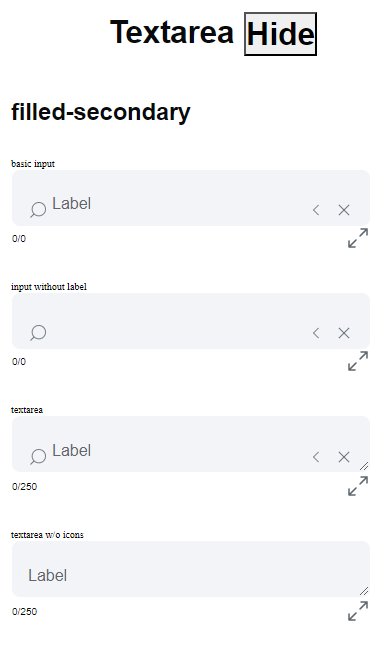
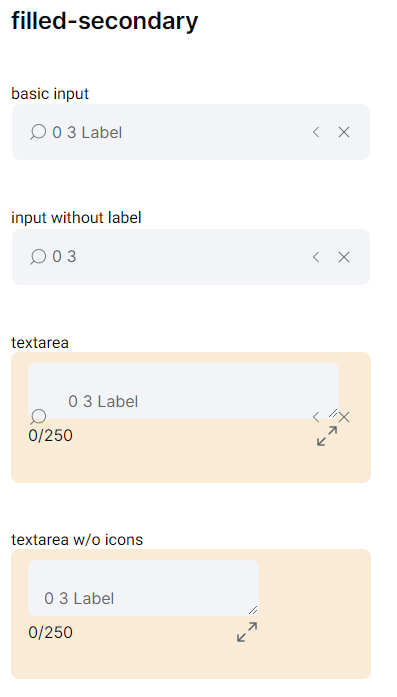
fup: with textareas

diff --git a/src/app/shared/modules/mib-ui/mib-ui.component.html b/src/app/shared/modules/mib-ui/mib-ui.component.html
@@ -59,7 +59,7 @@
 			Disabled
 		</mib-button>
 	</div>
-	<div class="spacer-3"></div>
+	<mib-spacing type="l"></mib-spacing>
 	<h3>filled-accent</h3>
 	<div class="btn-wrapper">
 		<mib-button size="xl" type="filled-accent">
@@ -92,7 +92,7 @@
 			<mib-ref-icon class="stroke" name="fi_chevron-right"></mib-ref-icon>
 		</mib-button>
 	</div>
-	<div class="spacer-3"></div>
+	<mib-spacing type="l"></mib-spacing>
 	<h3>filled-secondary</h3>
 	<div class="btn-wrapper">
 		<mib-button size="xl" type="filled-secondary">
@@ -125,7 +125,7 @@
 			<mib-ref-icon class="stroke" name="fi_chevron-right"></mib-ref-icon>
 		</mib-button>
 	</div>
-	<div class="spacer-3"></div>
+	<mib-spacing type="l"></mib-spacing>
 	<h3>floating</h3>
 	<div class="btn-wrapper">
 		<mib-button size="xl" type="floating">
@@ -158,7 +158,7 @@
 			<mib-ref-icon class="stroke" name="fi_chevron-right"></mib-ref-icon>
 		</mib-button>
 	</div>
-	<div class="spacer-3"></div>
+	<mib-spacing type="l"></mib-spacing>
 	<h3>outline-primary</h3>
 	<div class="btn-wrapper">
 		<mib-button size="xl" type="outline-primary">
@@ -191,7 +191,7 @@
 			<mib-ref-icon class="stroke" name="fi_chevron-right"></mib-ref-icon>
 		</mib-button>
 	</div>
-	<div class="spacer-3"></div>
+	<mib-spacing type="l"></mib-spacing>
 	<h3>outline-accent</h3>
 	<div class="btn-wrapper">
 		<mib-button size="xl" type="outline-accent">
@@ -224,7 +224,7 @@
 			<mib-ref-icon class="stroke" name="fi_chevron-right"></mib-ref-icon>
 		</mib-button>
 	</div>
-	<div class="spacer-3"></div>
+	<mib-spacing type="l"></mib-spacing>
 	<h3>ghost-primary</h3>
 	<div class="btn-wrapper">
 		<mib-button size="xl" type="ghost-primary">
@@ -256,7 +256,7 @@
 			<mib-ref-icon class="stroke" name="fi_chevron-right"></mib-ref-icon>
 		</mib-button>
 	</div>
-	<div class="spacer-3"></div>
+	<mib-spacing type="l"></mib-spacing>
 	<h3>ghost-secondary</h3>
 	<div class="btn-wrapper">
 		<mib-button size="xl" type="ghost-secondary">
@@ -309,7 +309,7 @@
 </h2>
 <div [formGroup]="form" *ngIf="isShownInputs" class="wrapper">
 	<h3>filled-secondary</h3>
-	<div class="spacer-3"></div>
+	<mib-spacing type="l"></mib-spacing>
 	<div class="input-wrapper">
 		<div class="test-input">
 			<span>test input</span>
@@ -427,9 +427,9 @@
 			></mib-ref-icon>
 		</mib-input>
 	</div>
-	<div class="spacer-3"></div>
+	<mib-spacing type="l"></mib-spacing>
 	<h3>floating</h3>
-	<div class="spacer-3"></div>
+	<mib-spacing type="l"></mib-spacing>
 	<div class="input-wrapper">
 		<div class="test-input">
 			<span>test input</span>
@@ -544,9 +544,9 @@
 			></mib-ref-icon>
 		</mib-input>
 	</div>
-	<div class="spacer-3"></div>
+	<mib-spacing type="l"></mib-spacing>
 	<h3>separated</h3>
-	<div class="spacer-3"></div>
+	<mib-spacing type="l"></mib-spacing>
 	<div class="input-wrapper">
 		<div class="test-input">
 			<span>test input</span>
@@ -661,7 +661,7 @@
 			></mib-ref-icon>
 		</mib-input>
 	</div>
-	<div class="spacer-10"></div>
+	<mib-spacing type="l"></mib-spacing>
 </div>
 
 <hr style="max-width: 50%; opacity: 0.5; margin: 3rem auto" />
@@ -682,7 +682,7 @@
 </h2>
 <div *ngIf="isShownTextarea" class="wrapper">
 	<h3>filled-secondary</h3>
-	<div class="spacer-3"></div>
+	<mib-spacing type="l"></mib-spacing>
 	<div class="input-wrapper">
 		<div class="test-input">
 			<span>basic input</span>
@@ -714,7 +714,7 @@
 					name="fi_x"
 				></mib-ref-icon>
 			</mib-input>
-			<div class="spacer-3"></div>
+			<mib-spacing type="l"></mib-spacing>
 			<span>input without label</span>
 			<mib-input>
 				<input
@@ -743,7 +743,7 @@
 					name="fi_x"
 				></mib-ref-icon>
 			</mib-input>
-			<div class="spacer-3"></div>
+			<mib-spacing type="l"></mib-spacing>
 			<span>textarea</span>
 			<mib-input>
 				<mib-ref-icon
@@ -772,7 +772,7 @@
 					placeholder="Дополнительные сведения операции"
 				></textarea>
 			</mib-input>
-			<div class="spacer-3"></div>
+			<mib-spacing type="l"></mib-spacing>
 			<span>textarea w/o icons</span>
 			<mib-input>
 				<ng-container input-label>Label</ng-container>
@@ -786,5 +786,5 @@
 			</mib-input>
 		</div>
 	</div>
-	<div class="spacer-10"></div>
+	<mib-spacing type="l"></mib-spacing>
 </div>

diff --git a/src/app/shared/ui-kit/input/input.component.html b/src/app/shared/ui-kit/input/input.component.html
@@ -1,5 +1,11 @@
 <div #box class="box-wrapper flex flex_column">
-	<span #label (click)="focus()" class="box-label text c-bti-tertiary">
+	<span
+		#label
+		(click)="focus()"
+		[class.box_without-label]="!label.children.length"
+		class="box-label text c-bti-tertiary"
+		>{{ label.children.length | json }}
+		{{ box.children.length | json }}
 		<ng-content select="[input-label]"></ng-content>
 	</span>
 	<div
@@ -14,7 +20,6 @@
 		<div class="input_icon-wrapper right-wrapper" #iconsRight>
 			<ng-content select="[input-right-icon]"></ng-content>
 		</div>
-		<!-- <div *ngIf="inputDirective.controls" class="textarea-panel"> -->
 		<div
 			*ngIf="inputDirective.controls"
 			class="textarea-panel flex flex_align-center flex_justify-between"

diff --git a/src/app/shared/modules/mib-ui/mib-ui.module.ts b/src/app/shared/modules/mib-ui/mib-ui.module.ts
@@ -5,6 +5,7 @@ import { InputModule } from '../../ui-kit/input/input.module'
 import { MibUiComponent } from './mib-ui.component'
 import { RefIconModule } from '../../ui-kit/ref-icon/ref-icon.module'
 import { FormsModule, ReactiveFormsModule } from '@angular/forms'
+import { SpacingModule } from '../../ui-kit/spacing/spacing.module'
 
 @NgModule({
 	imports: [
@@ -13,7 +14,8 @@ import { FormsModule, ReactiveFormsModule } from '@angular/forms'
 		ReactiveFormsModule,
 		ButtonModule,
 		RefIconModule,
-		InputModule
+		InputModule,
+		SpacingModule
 	],
 	declarations: [MibUiComponent]
 })

diff --git a/src/app/shared/modules/mib-ui/mib-ui.component.ts b/src/app/shared/modules/mib-ui/mib-ui.component.ts
@@ -12,6 +12,8 @@ import { FormBuilder, FormGroup, Validators } from '@angular/forms'
 				display: block;
 				margin: auto;
 				padding: 0 15px;
+				overflow: auto;
+				height: -webkit-fill-available;
 			}
 			.btn-wrapper {
 				display: flex;
@@ -29,7 +31,7 @@ import { FormBuilder, FormGroup, Validators } from '@angular/forms'
 export class MibUiComponent implements OnInit {
 	isShownBtns = false
 	isShownInputs = false
-	isShownTextarea = true
+	isShownTextarea = false
 	public inputSizeXL: InputSize = 'xl'
 	public inputSizeL: InputSize = 'l'
 	public inputSizeM: InputSize = 'm'

diff --git a/src/styles/components/_input.scss b/src/styles/components/_input.scss
@@ -257,6 +257,19 @@
 			}
 		}
 	}
+	&:has(textarea) {
+		display: flex;
+		padding: 10px 16px 34px 16px;
+		align-items: flex-start;
+		gap: 8px;
+		background-color: antiquewhite;
+		input {
+			background-color: transparent;
+		}
+		div.textarea-panel {
+			display: flex;
+		}
+	}
 }
 
 .input {
